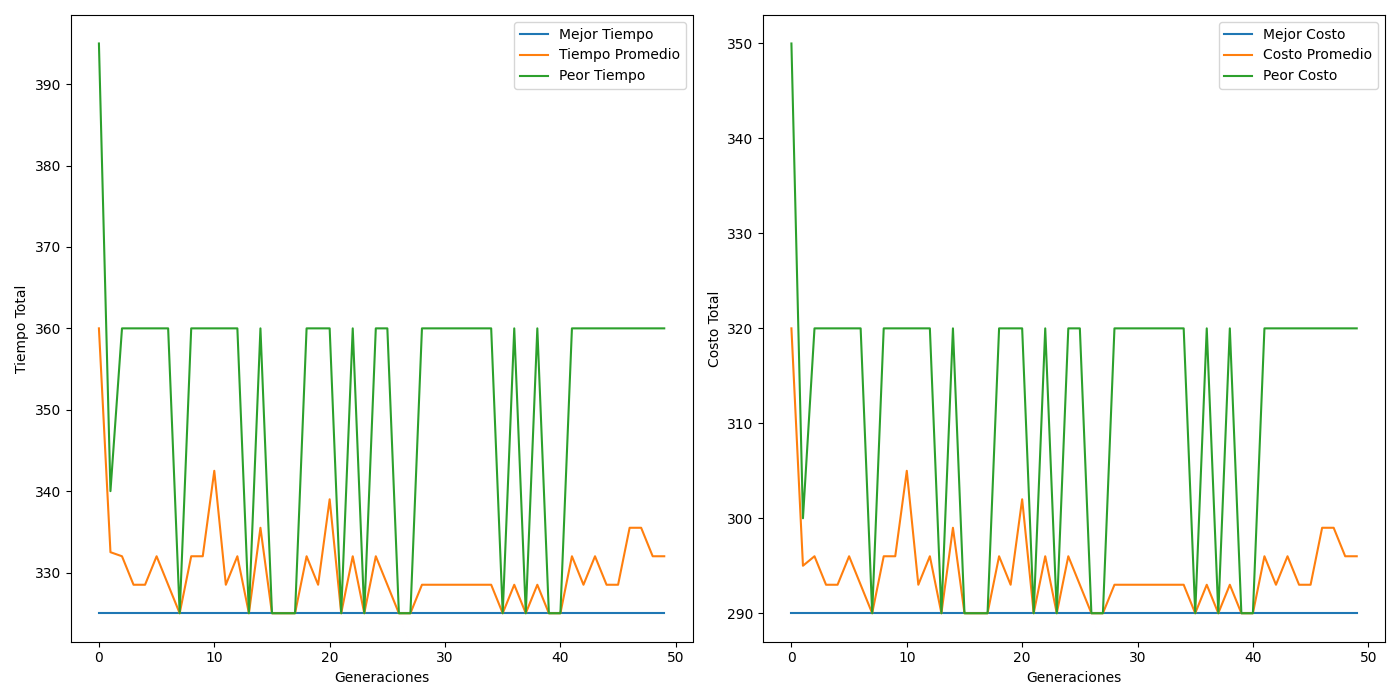
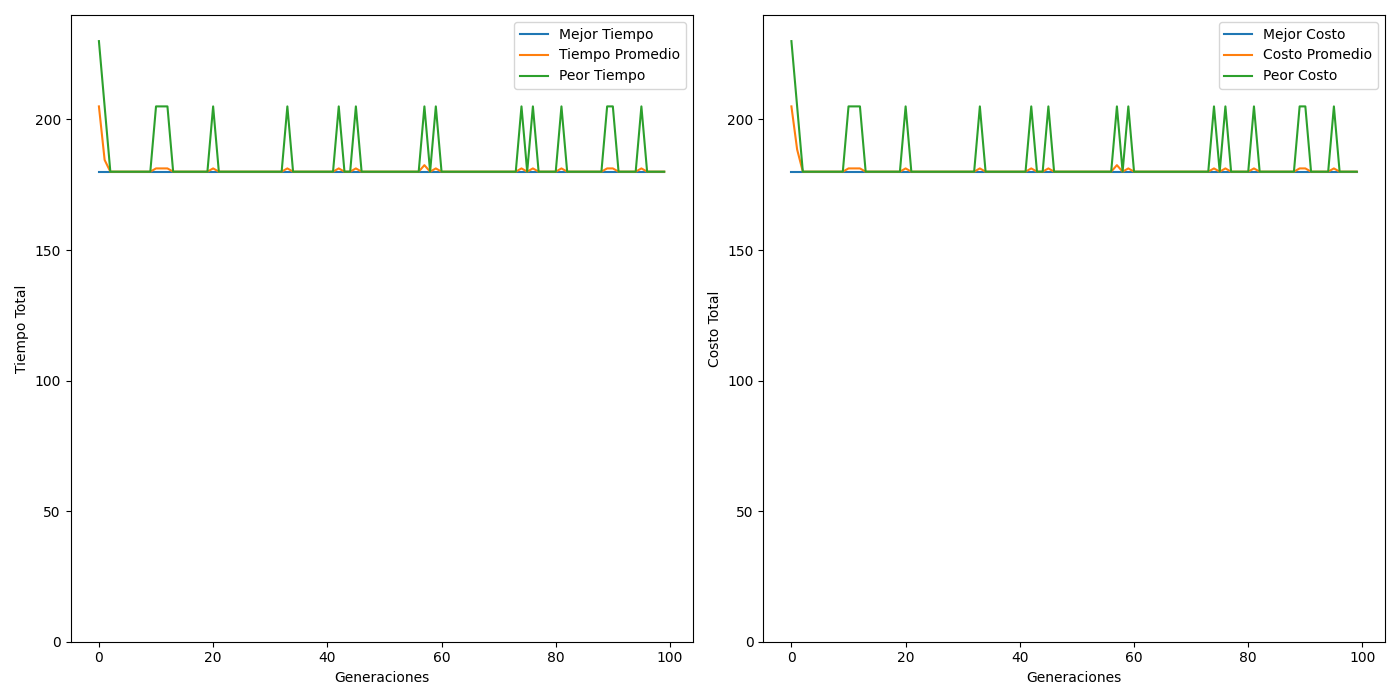
[FIX] the graphic

diff --git a/app.py b/app.py
@@ -28,7 +28,6 @@ ACTIVIDADES_LIMPIEZA = [
     {'posicion': 18, 'actividad': 'Limpieza de hospitales', 'equipo': 'Desinfectante y trapo', 'costo': 100, 'tiempo': 90},
     {'posicion': 19, 'actividad': 'Limpieza de tiendas y centros comerciales', 'equipo': 'Aspiradora y trapeador', 'costo': 70, 'tiempo': 90}
 ]
-
 class Individuo:
     def __init__(self, actividades):
         self.actividades = actividades
@@ -124,17 +123,17 @@ def index():
         actividades = [ACTIVIDADES_LIMPIEZA[int(index)] for index in actividades_seleccionadas]
 
         peor_individuo, mejor_individuo, evolucion_mejor_aptitud, evolucion_tiempos, evolucion_costos = algoritmo_genetico(
-            tamano_poblacion=10, 
+            tamano_poblacion=20, 
             actividades=actividades, 
-            generaciones=50, 
-            tasa_mutacion=0.1
+            generaciones=100, 
+            tasa_mutacion=0.01
         )
 
         peor = calcular_datos(peor_individuo.actividades, 1, peor=True)
         intermedio = calcular_datos(mejor_individuo.actividades, random.randint(2, 3))
         mejor = calcular_datos(mejor_individuo.actividades, random.randint(3, 5))
 
-        generaciones = list(range(50))
+        generaciones = list(range(100))
 
         plt.figure(figsize=(14, 7))
 
@@ -147,6 +146,7 @@ def index():
         plt.plot(generaciones, tiempos_peor, label='Peor Tiempo')
         plt.xlabel('Generaciones')
         plt.ylabel('Tiempo Total')
+        plt.ylim(0, max(tiempos_peor) + 10)  # Asegurando que los valores sean positivos
         plt.legend()
 
         plt.subplot(1, 2, 2)
@@ -158,6 +158,7 @@ def index():
         plt.plot(generaciones, costos_peor, label='Peor Costo')
         plt.xlabel('Generaciones')
         plt.ylabel('Costo Total')
+        plt.ylim(0, max(costos_peor) + 10)  # Asegurando que los valores sean positivos
         plt.legend()
 
         plt.tight_layout()
@@ -168,8 +169,8 @@ def index():
             'solucion_un_empleado': peor,
             'solucion_intermedia': intermedio,
             'solucion_mejor': mejor,
-            'grafica_tiempos_path': url_for('static', filename='grafica_tiempos.png'),
-            'grafica_costos_path': url_for('static', filename='grafica_costos.png')
+            'grafica_tiempos_path': url_for('static', filename='grafica_evolucion.png'),
+            'grafica_costos_path': url_for('static', filename='grafica_evolucion.png')
         })
 
     return render_template('index.html', actividades=ACTIVIDADES_LIMPIEZA)
